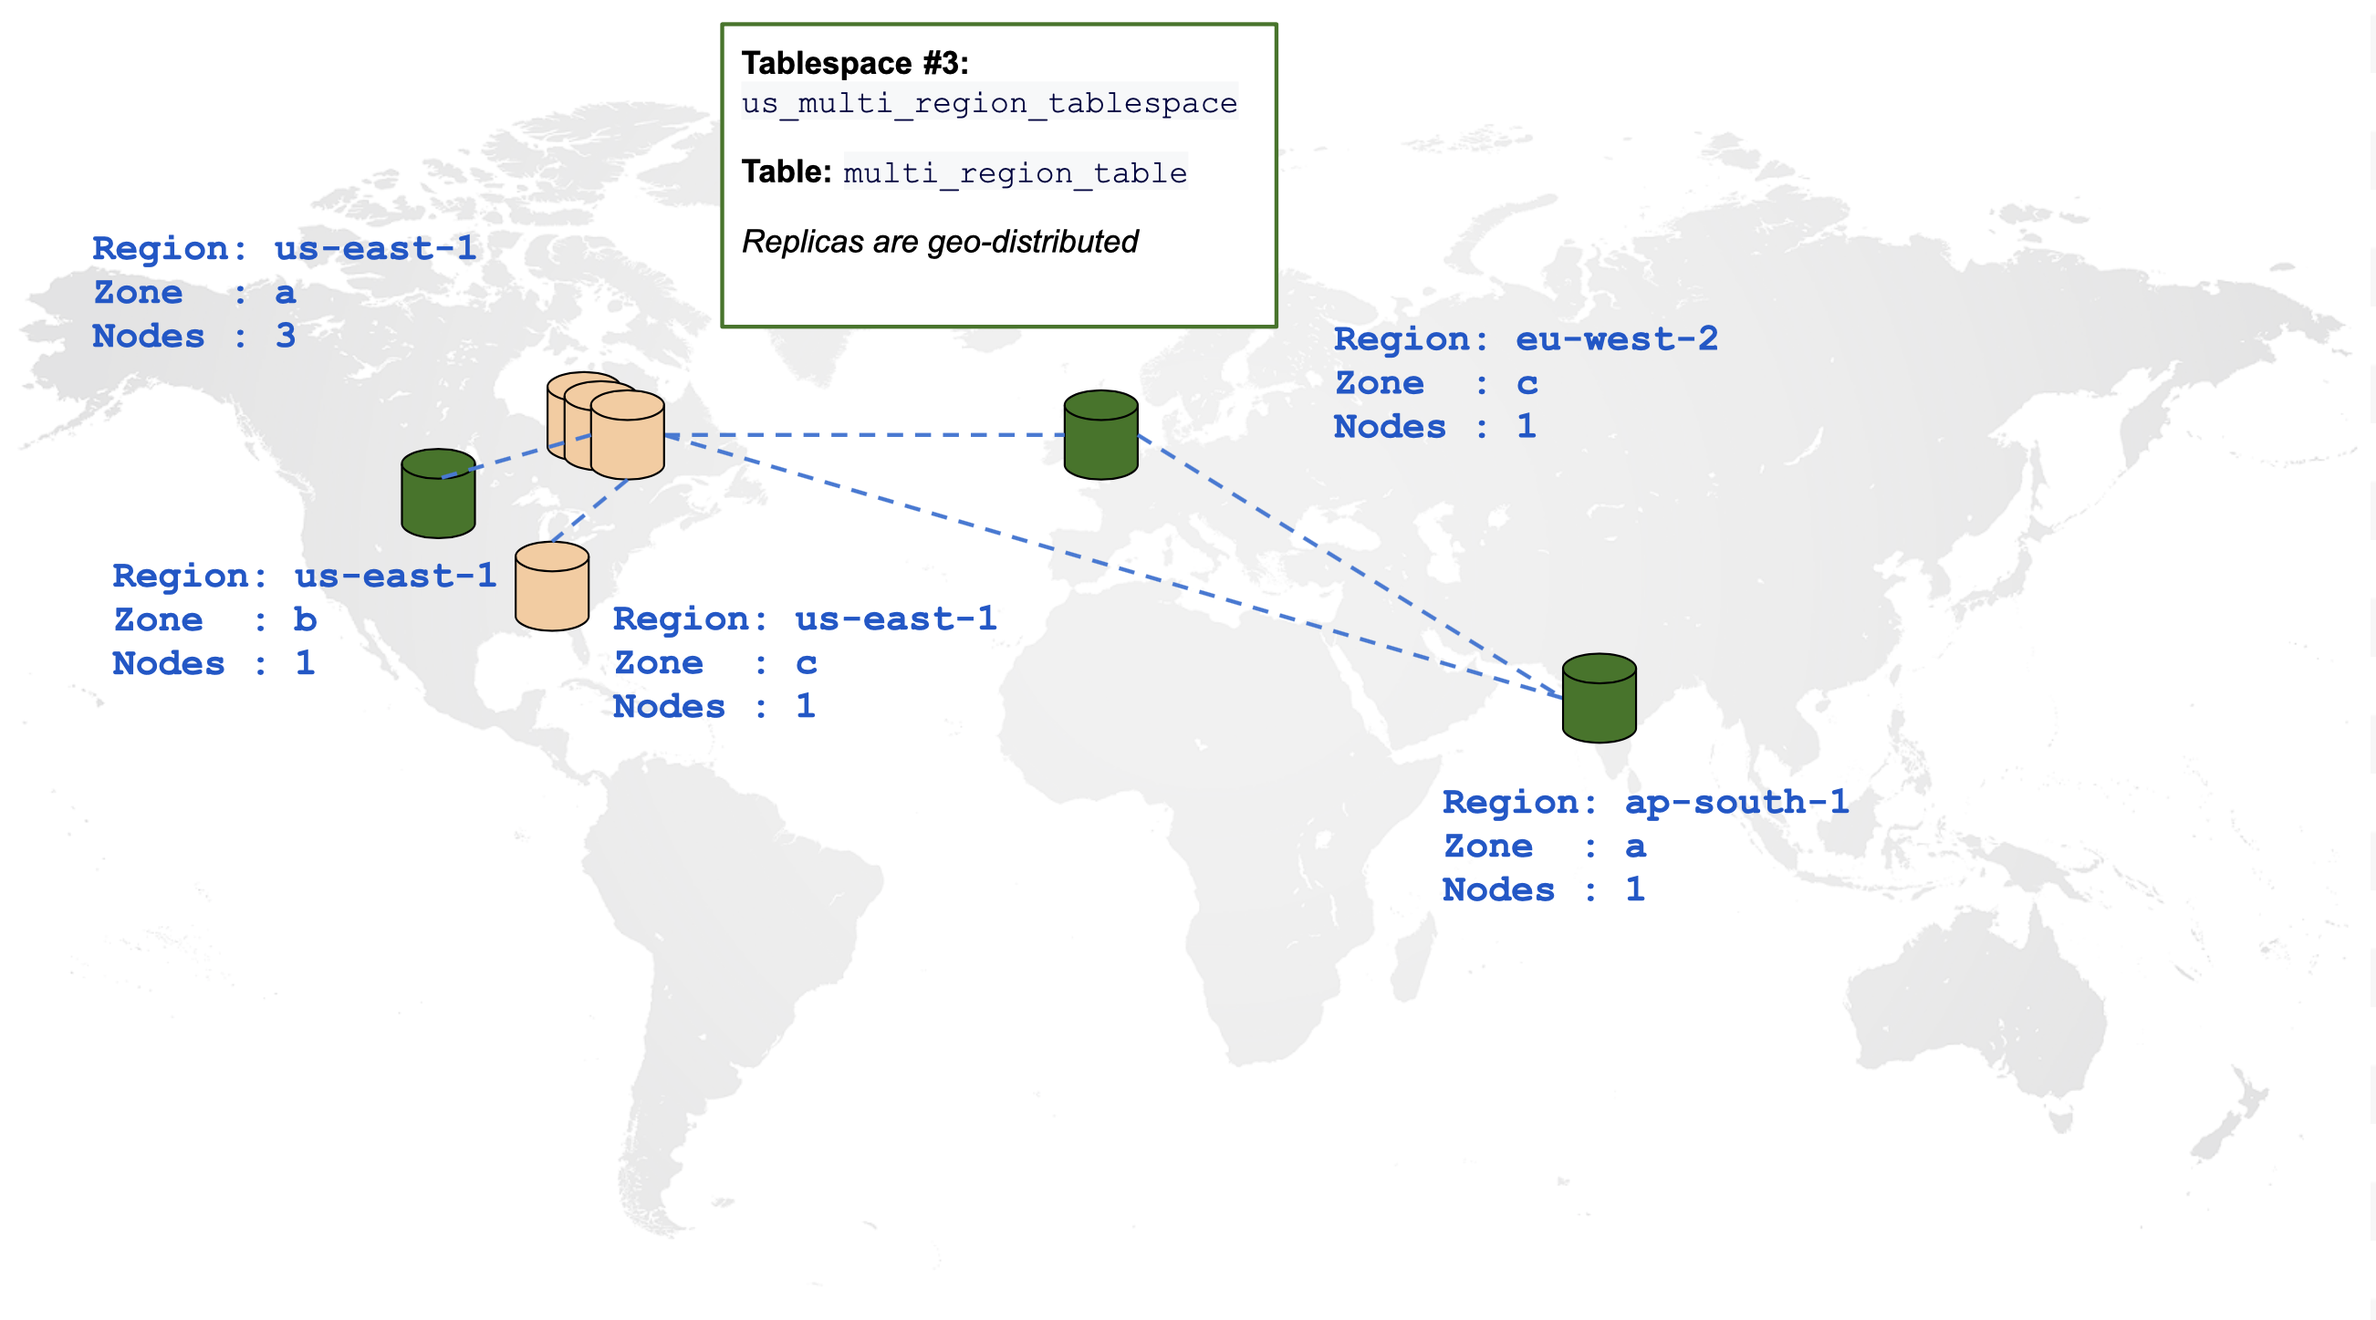
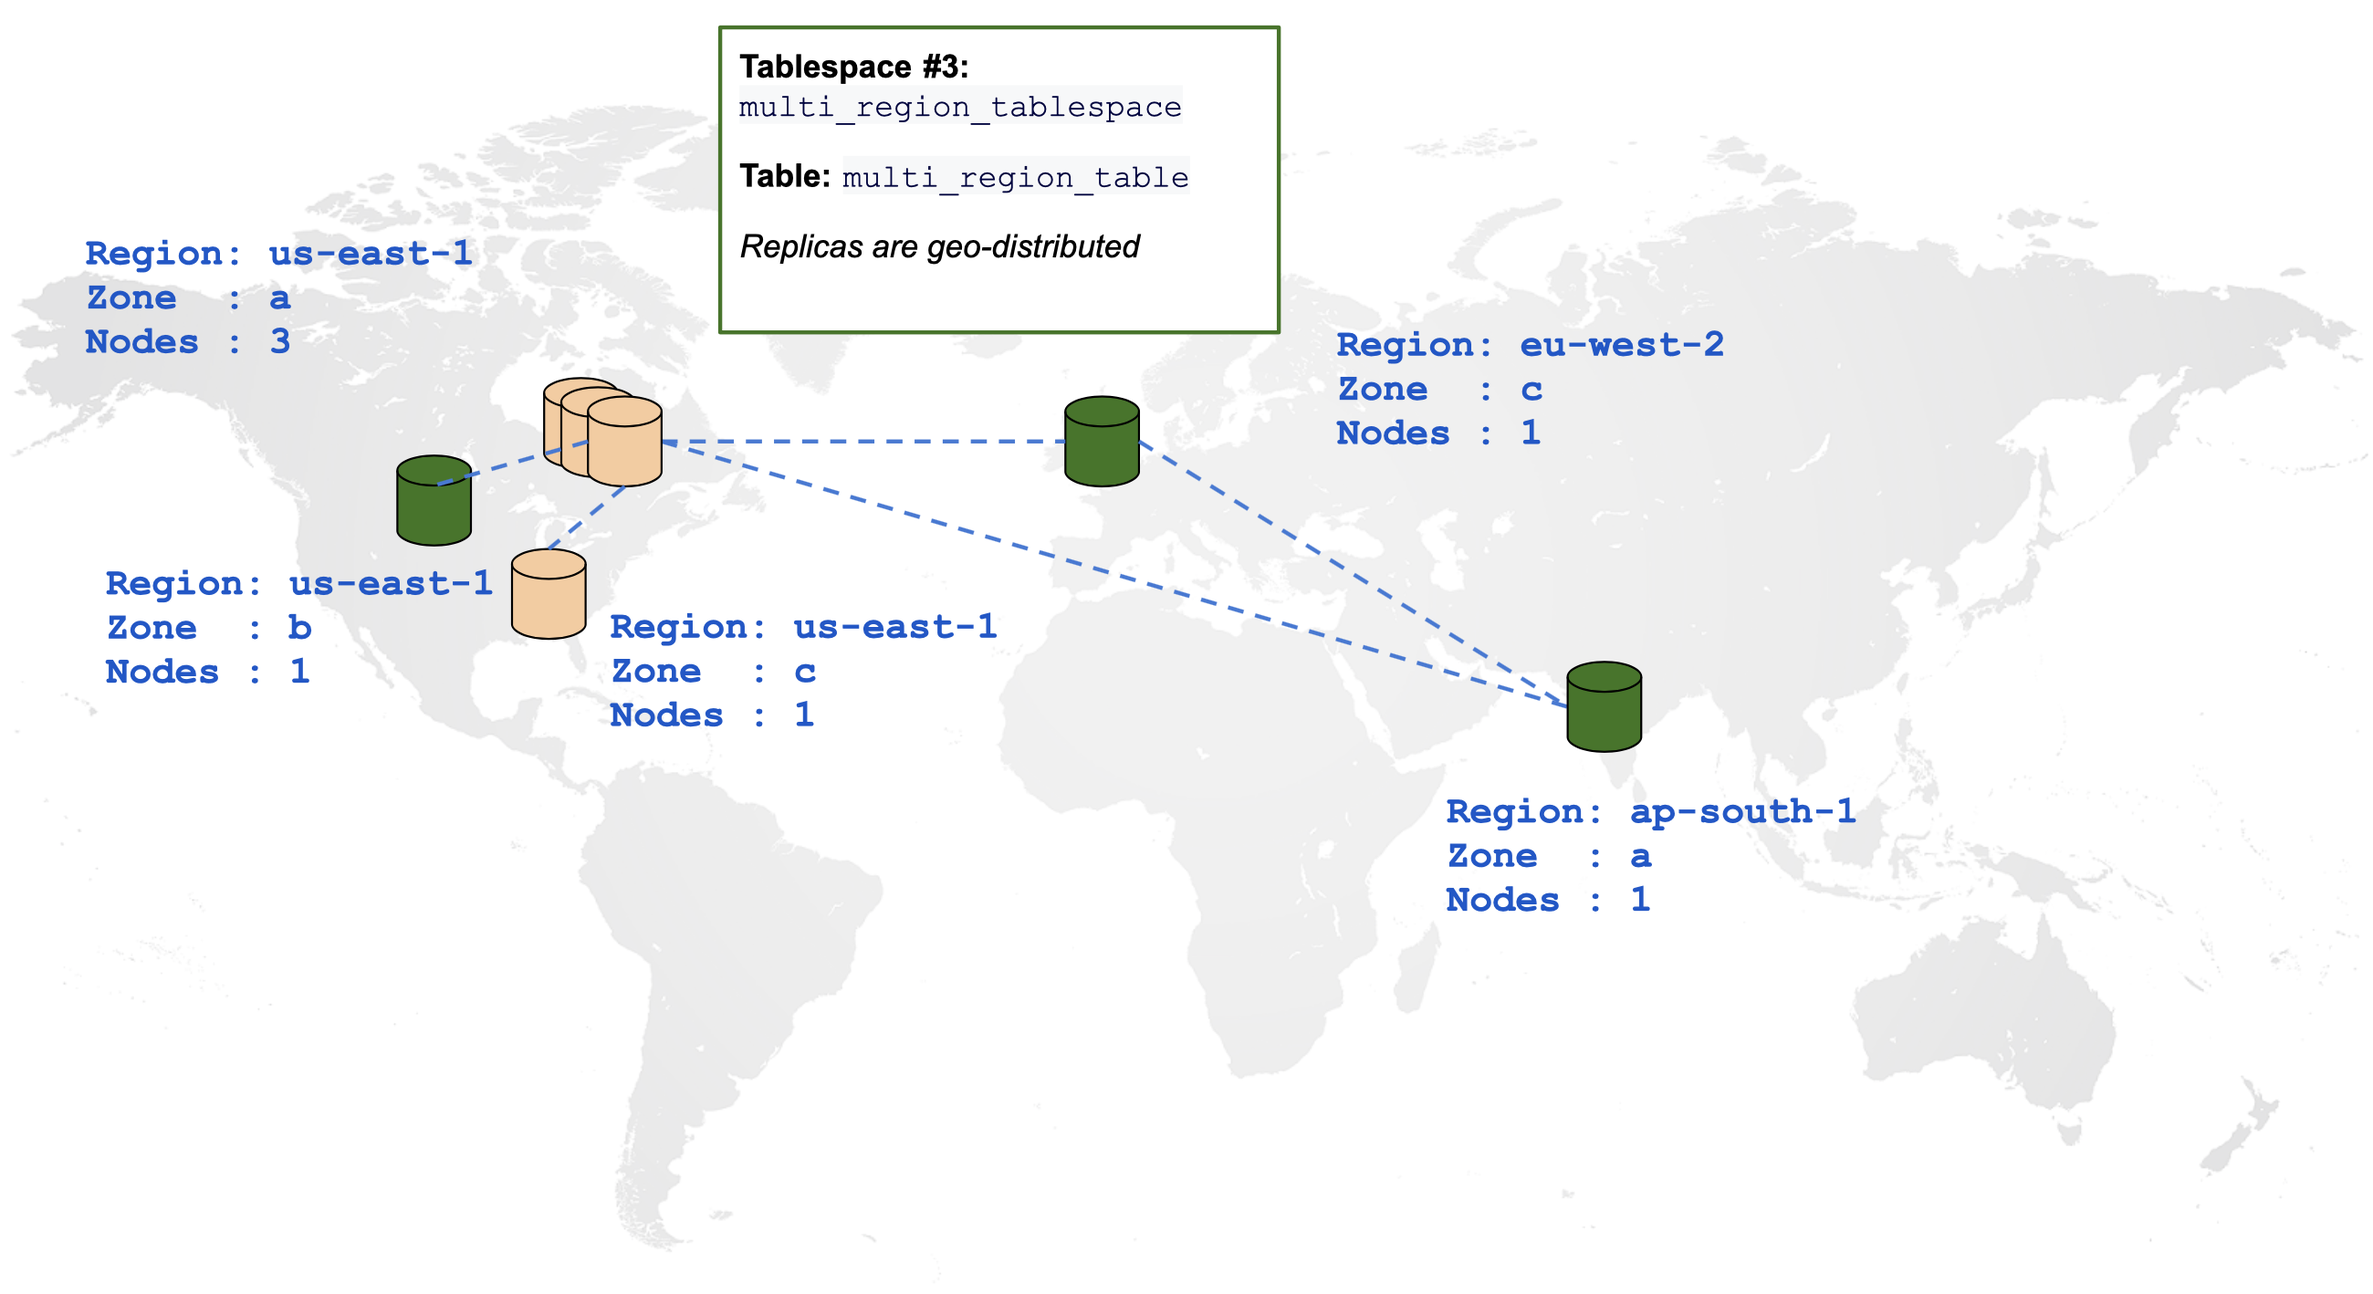
Docs changes for Geo-Distributed Placement
This patch contains the following changes:
(i) Edit the images for the Tablespaces section to use the name
'multi_region_tablespace' rather than 'us_multi_region_tablespace'
as the tablespaces span multiple countries
(ii) Add a new command to yb-admin page to document the command
modify_table_placement_info
(iii) Edit a bug in Row Level Geo Partitioning page wherein a
 DEFAULT partition is created, and then a new partition is created.
We should not list this here as in some cases we can't create a new
partition if a default partition is present.
(iv) Add details about the above limitation to the section on
Table Partitioning.

diff --git a/docs/content/latest/explore/multi-region-deployments/row-level-geo-partitioning.md b/docs/content/latest/explore/multi-region-deployments/row-level-geo-partitioning.md
@@ -22,7 +22,7 @@ showAsideToc: true
   </li>
 </ul>
 
-Row-level geo-partitioning allows fine-grained control over pinning data in a user table (at a per-row level) to geographic locations, thereby allowing the data residency to be managed at the table-row level. Use-cases requiring low latency multi-region deployments, transactional consistency semantics and transparent schema change propagation across the regions would benefit from this feature. 
+Row-level geo-partitioning allows fine-grained control over pinning data in a user table (at a per-row level) to geographic locations, thereby allowing the data residency to be managed at the table-row level. Use-cases requiring low latency multi-region deployments, transactional consistency semantics and transparent schema change propagation across the regions would benefit from this feature.
 
 {{< tip title="Moving data closer to users" >}}
 Geo-partitioning makes it easy for developers to move data closer to users for:
@@ -33,7 +33,7 @@ Geo-partitioning makes it easy for developers to move data closer to users for:
 
 Geo-partitioning of data enables fine-grained, row-level control over the placement of table data across different geographical locations. This is accomplished in two simple steps – first, partitioning a table into user-defined table partitions, and subsequently pinning these partitions to the desired geographic locations by configuring metadata for each partition.
 
-* The first step of creating user-defined table partitions is done by designating a column of the table as the partition column that will be used to geo-partition the data. The value of this column for a given row is used to determine the table partition that the row belongs to. 
+* The first step of creating user-defined table partitions is done by designating a column of the table as the partition column that will be used to geo-partition the data. The value of this column for a given row is used to determine the table partition that the row belongs to.
 * The second step involves creating partitions in the respective geographic locations using tablespaces. Note that the data in each partition can be configured to get replicated across multiple zones in a cloud provider region, or across multiple nearby regions / datacenters.
 
 An entirely new geographic partition can be introduced dynamically by adding a new table partition and configuring it to keep the data resident in the desired geographic location. Data in one or more of the existing geographic locations can be purged efficiently simply by dropping the necessary partitions. Users of traditional RDBMS would recognize this scheme as being close to user-defined list-based table partitions, with the ability to control the geographic location of each partition.
@@ -44,7 +44,7 @@ This tutorial explains this feature in the context of an example scenario descri
 
 ## Example scenario
 
-Let us look at this feature in the context of a use case. Say that a large but imaginary bank, Yuga Bank, wants to offer an online banking service to users in many countries by processing their deposits, withdrawals, and transfers. 
+Let us look at this feature in the context of a use case. Say that a large but imaginary bank, Yuga Bank, wants to offer an online banking service to users in many countries by processing their deposits, withdrawals, and transfers.
 
 The following attributes would be required in order to build such a service.
 
@@ -71,7 +71,7 @@ First, we create the parent table that contains a `geo_partition` column which i
         geo_partition VARCHAR,
         account_type VARCHAR NOT NULL,
         amount NUMERIC NOT NULL,
-        txn_type VARCHAR NOT NULL, 
+        txn_type VARCHAR NOT NULL,
         created_at TIMESTAMP DEFAULT NOW()
     ) PARTITION BY LIST (geo_partition);
     ```
@@ -101,29 +101,29 @@ First, we create the parent table that contains a `geo_partition` column which i
     );
     ```
 
-1. Next, create one partition per desired geography under the parent table, and assign each to the  applicable tablespace. Here, you create three table partitions: one for the EU region called `transactions_eu`, another for the India region called `transactions_india,` and a third default partition for the rest of the regions called `transactions_default`.
+1. Next, create one partition per desired geography under the parent table, and assign each to the  applicable tablespace. Here, you create three table partitions: one for the EU region called `transactions_eu`, another for the India region called `transactions_india,` and a third partition for US region called `transactions_us`.
 
     ```sql
-    CREATE TABLE transactions_eu 
-        PARTITION OF transactions 
-          (user_id, account_id, geo_partition, account_type, 
+    CREATE TABLE transactions_eu
+        PARTITION OF transactions
+          (user_id, account_id, geo_partition, account_type,
           amount, txn_type, created_at,
           PRIMARY KEY (user_id HASH, account_id, geo_partition))
         FOR VALUES IN ('EU') TABLESPACE eu_central_1_tablespace;;
 
-    CREATE TABLE transactions_india 
+    CREATE TABLE transactions_india
         PARTITION OF transactions
-          (user_id, account_id, geo_partition, account_type, 
+          (user_id, account_id, geo_partition, account_type,
           amount, txn_type, created_at,
           PRIMARY KEY (user_id HASH, account_id, geo_partition))
         FOR VALUES IN ('India') TABLESPACE ap_south_1_tablespace;
 
-    CREATE TABLE transactions_default 
+    CREATE TABLE transactions_us
         PARTITION OF transactions
-          (user_id, account_id, geo_partition, account_type, 
+          (user_id, account_id, geo_partition, account_type,
           amount, txn_type, created_at,
           PRIMARY KEY (user_id HASH, account_id, geo_partition))
-        DEFAULT TABLESPACE us_west_2_tablespace;
+        FOR VALUES IN ('US') TABLESPACE us_west_2_tablespace;
     ```
 
 1. Use the `\d` command to view the table and partitions you've created so far.
@@ -137,9 +137,9 @@ First, we create the parent table that contains a `geo_partition` column which i
      Schema |         Name         | Type  |  Owner
     --------+----------------------+-------+----------
     public | transactions         | table | yugabyte
-    public | transactions_default | table | yugabyte
     public | transactions_eu      | table | yugabyte
     public | transactions_india   | table | yugabyte
+    public | transactions_us      | table | yugabyte
     (4 rows)
     ```
 
@@ -171,7 +171,7 @@ Expanded display is used automatically.
 1. Insert a row into the table with the `geo_partition` column value set to `EU` below.
 
     ```sql
-    INSERT INTO transactions 
+    INSERT INTO transactions
         VALUES (100, 10001, 'EU', 'checking', 120.50, 'debit');
     ```
 
@@ -220,7 +220,7 @@ yugabyte=# select count(*) from transactions_india;
 ```
 
 ```sql
-yugabyte=# select count(*) from transactions_default;
+yugabyte=# select count(*) from transactions_us;
 ```
 
 ```sql
@@ -232,9 +232,9 @@ yugabyte=# select count(*) from transactions_default;
 Now, let's insert data into the other partitions.
 
 ```sql
-INSERT INTO transactions 
+INSERT INTO transactions
     VALUES (200, 20001, 'India', 'savings', 1000, 'credit');
-INSERT INTO transactions 
+INSERT INTO transactions
     VALUES (300, 30001, 'US', 'checking', 105.25, 'debit');
 ```
 
@@ -256,7 +256,7 @@ created_at    | 2020-11-07 21:45:26.011636
 ```
 
 ```sql
-yugabyte=# select * from transactions_default;
+yugabyte=# select * from transactions_us;
 ```
 
 ```output
@@ -270,14 +270,14 @@ txn_type      | debit
 created_at    | 2020-11-07 21:45:26.067444
 ```
 
-## Step 4. Users travelling across geographic locations
+## Step 3. Users travelling across geographic locations
 
 In order to make things interesting, let us say user 100, whose first transaction was performed in the EU region travels to India and the US, and performs two other transactions. This can be simulated by using the following statements.
 
 ```sql
-INSERT INTO transactions 
+INSERT INTO transactions
     VALUES (100, 10001, 'India', 'savings', 2000, 'credit');
-INSERT INTO transactions 
+INSERT INTO transactions
     VALUES (100, 10001, 'US', 'checking', 105, 'debit');
 ```
 
@@ -299,7 +299,7 @@ created_at    | 2020-11-07 21:56:26.760253
 ```
 
 ```sql
-yugabyte=# select * from transactions_default where user_id=100;
+yugabyte=# select * from transactions_us where user_id=100;
 ```
 
 ```output
@@ -346,7 +346,7 @@ txn_type      | debit
 created_at    | 2020-11-07 21:28:11.056236
 ```
 
-## Step 5. Adding a new geographic location
+## Step 4. Adding a new geographic location
 
 Assume that after a while, our fictitious Yuga Bank gets a lot of customers across the globe, and wants to offer the service to residents of Brazil, which also has data residency laws. Thanks to row-level geo-partitioning, this can be accomplished easily. We can simply add a new partition and pin it to the AWS South America (São Paulo) region `sa-east-1` as shown below.
 
@@ -369,7 +369,7 @@ CREATE TABLE transactions_brazil
 And with that, the new region is ready to store transactions of the residents of Brazil.
 
 ```sql
-INSERT INTO transactions 
+INSERT INTO transactions
     VALUES (400, 40001, 'Brazil', 'savings', 1000, 'credit');
 
 select * from transactions_brazil;

diff --git a/docs/content/latest/admin/yb-admin.md b/docs/content/latest/admin/yb-admin.md
@@ -457,6 +457,53 @@ Waiting for compaction...
 Compaction complete: SUCCESS
 ```
 
+#### modify_table_placement_info
+
+Modifies the placement information (cloud, region, and zone) for a table.
+
+**Syntax**
+
+```sh
+yb-admin \
+    -master_addresses <master-addresses> \
+    modify_table_placement_info <keyspace> <table_name> <placement_info> <replication_factor> \
+    [ <placement_id> ]
+```
+
+or alternatively:
+
+```sh
+yb-admin \
+    -master_addresses <master-addresses> \
+    modify_table_placement_info tableid.<table_id> <placement_info> <replication_factor> \
+    [ <placement_id> ]
+```
+
+* _master-addresses_: Comma-separated list of YB-Master hosts and ports. Default value is `localhost:7100`.
+* keyspace: The namespace, or name of the database or keyspace.
+* table_name: The name of the table.
+* table_id: The unique uuid associated with the table whose placement policy is being changed.
+* *placement_info*: Comma-delimited list of placements for *cloud*.*region*.*zone*. Default value is `cloud1.datacenter1.rack1`.
+* *replication_factor*: The number of replicas for each tablet.
+* *placement_id*: Identifier of the primary cluster. Optional. If set, it has to match the placement_id specified for the primary cluster in the cluster configuration.
+
+**Example**
+
+```sh
+$ ./bin/yb-admin \
+    -master_addresses $MASTER_RPC_ADDRS \
+    modify_table_placement_info  testdatabase testtable \
+    aws.us-west.us-west-2a,aws.us-west.us-west-2b,aws.us-west.us-west-2c 3
+```
+
+Verify this in the Master UI by opening the **YB-Master UI** (`<master_host>:7000/`) and clicking **Tables** in the navigation bar. Navigate to the appropriate table whose placement information you're changing, and check the Replication Info section.
+
+{{< note title="Note" >}}
+* Setting placement for tables is not supported for clusters with read-replicas or leader affinity policies enabled.
+
+* Use this command to create custom placement policies only for YCQL tables. For YSQL tables, use [Tablespaces](../../explore/ysql-language-features/tablespaces) instead.
+{{< /note >}}
+
 ---
 
 ### Backup and snapshot commands
@@ -570,16 +617,16 @@ When `show_details` is included, the `list_snapshot` command prints the followin
 * `type`: `TABLE` <== Use for table or index
   * `id`: `"<table_id>"`  or `"<index_id>"`
   * `data`:
-    * `name`: `"<table_name>"` or `"<index_id>"` 
+    * `name`: `"<table_name>"` or `"<index_id>"`
     * `version`: `"<table_version>"`
     * `state`: `"<state>"`
     * `state_msg`: `"<state_msg>"`
     * `next_column_id`: `"<column_id>"`
     * `table_type`: `"YQL_TABLE_TYPE"`
     * `namespace_id`: `"<namespace_id>"`
-    * `indexed_table_id` (index only): `<table_id>` 
+    * `indexed_table_id` (index only): `<table_id>`
     * `is_local_index` (index only): `true` or `false`
-    * `is_unique_index` (index only):  `true` or `false` 
+    * `is_unique_index` (index only):  `true` or `false`
 
 **Example**
 
@@ -833,7 +880,7 @@ Returns one or more schedule lists in JSON format.
 
 * schedule ID
 * schedule options (interval and retention time)
-* a list of snapshots that the system has automatically taken 
+* a list of snapshots that the system has automatically taken
 
 **Snapshot list** entries include:
 

diff --git a/docs/content/latest/explore/ysql-language-features/partitions.md b/docs/content/latest/explore/ysql-language-features/partitions.md
@@ -27,7 +27,7 @@ YSQL supports the following types of partitioning:
 - List partitioning, when a table is partitioned via listing key values to appear in each partition.
 - Hash partitioning, when a table is partitioned by specifying a modulus and remainder for each  partition.
 
-For supplementary information on partitioning, see [Row-Level Geo-Partitioning](../../multi-region-deployments/row-level-geo-partitioning/). 
+For supplementary information on partitioning, see [Row-Level Geo-Partitioning](../../multi-region-deployments/row-level-geo-partitioning/).
 
 ## Declarative Table Partitioning
 
@@ -56,14 +56,7 @@ CREATE TABLE order_changes (
   change_date date,
   type text,
   description text
-) 
-PARTITION BY RANGE (change_date);
-
-CREATE TABLE order_changes (
-  change_date date,
-  type text,
-  description text
-) 
+)
 PARTITION BY RANGE (change_date);
 ```
 
@@ -99,6 +92,12 @@ CREATE TABLE order_changes_2021_01 PARTITION OF order_changes
 Partitioning ranges are inclusive at the lower ( `FROM` ) bound and exclusive at the upper ( `TO` ) bound.
 Each month range in the preceding examples includes the start of the month, but does not include the start of the following month.
 
+To create a new partition that contains only the rows that don't match the specified partitions, add a default partition as follows:
+
+```sql
+CREATE TABLE order_changes_default PARTITION OF order_changes DEFAULT;
+```
+
 Optionally, you can create an index on the key columns and other indexes for every partition, as follows:
 
 ```sql
@@ -131,6 +130,7 @@ Note the following:
 - If you choose to define row triggers, you do so on individual partitions instead of the partitioned table.
 - A partition table does not inherit tablespaces from its parent. A partition table by default is placed according to cluster configuration.
 - You cannot mix temporary and permanent relations in the same partition hierarchy.
+- If you have a default partition in the partitioning hierarchy, you can add new partitions only if there is no data in the default partition that matches the partition constraint of the new partition.
 
 ## Partition Pruning
 
